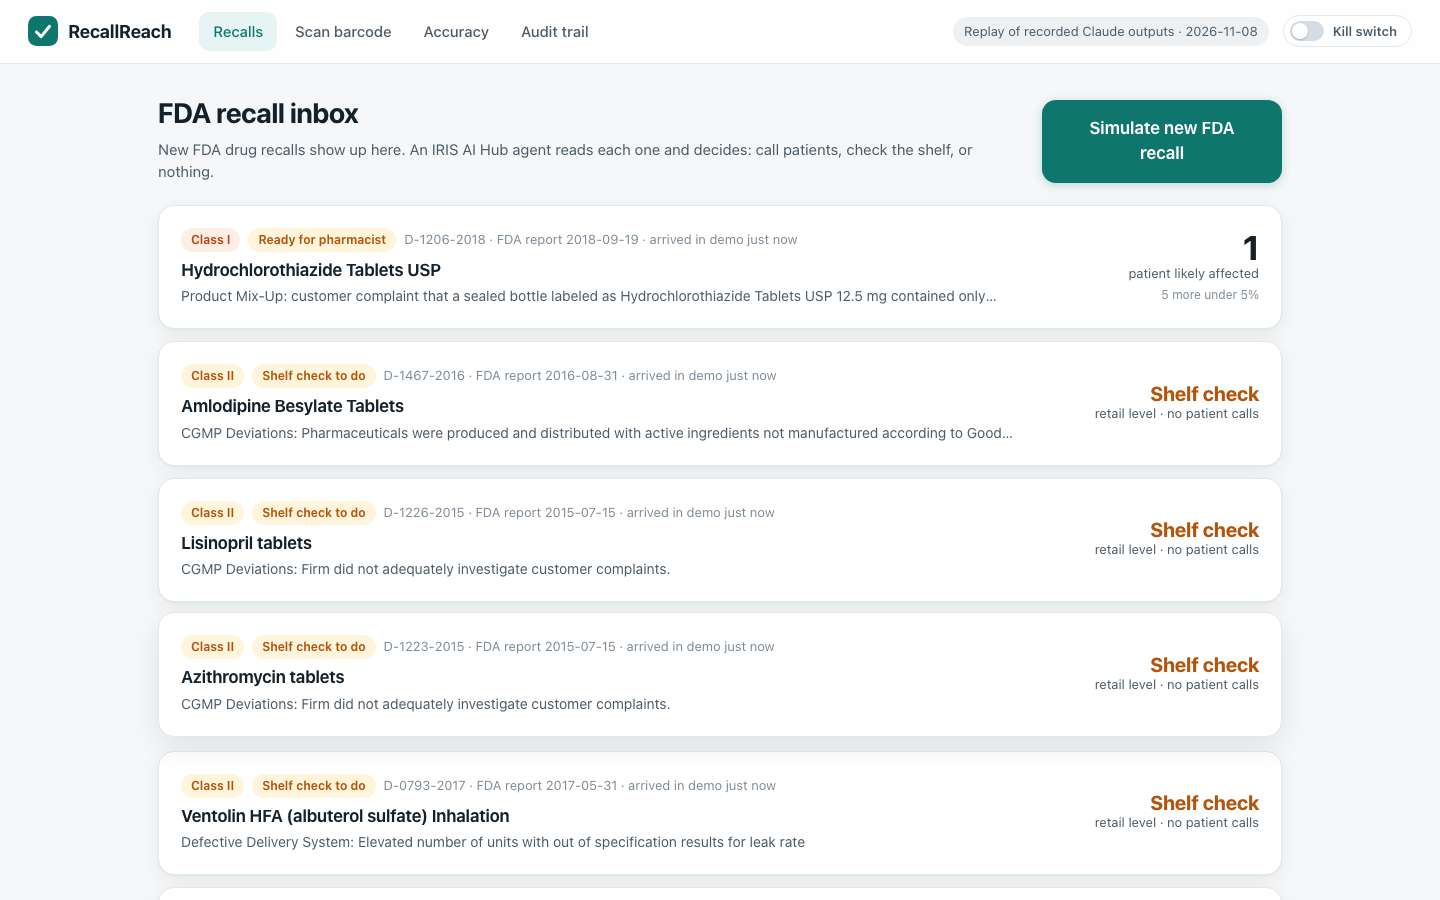
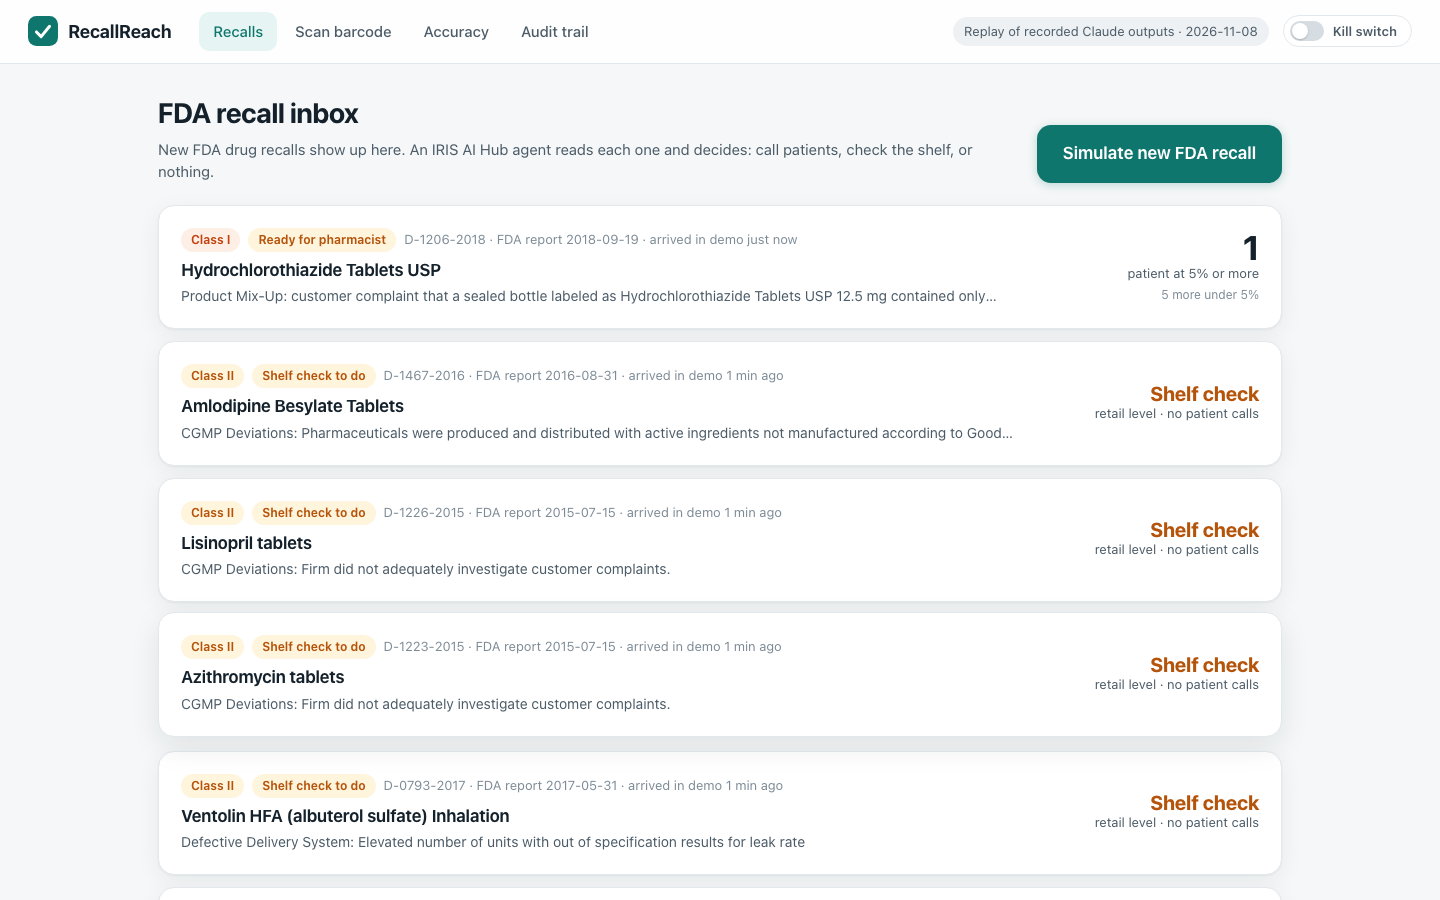
README: why an agent (95 of 105), updated accuracy, scoring notes, new screens and GIF

diff --git a/README.md b/README.md
@@ -7,7 +7,9 @@ When the FDA recalls a drug, RecallReach finds which pharmacy patients probably 
 **For judges (2 minutes)**
 1. Load the IRIS AI Hub image (see [Run it](#run-it)), then `docker compose up -d --build` and open http://localhost:52795/recallreach/index.html
 2. Press *Simulate new FDA recall*, open it, press *Find patients*, then *Ask pharmacist approval* and *Approve*.
-3. Real: MIMIC-IV demo patients, openFDA recalls, the IRIS production, tool calls, Workflow approval, audit, and 312 replies from `claude-haiku-5-5` recorded on 2026-11-08 (the 300 benchmark recalls and all 13 demo recalls). Replayed: with no API key (the default) the agent gets those recorded Claude replies back from a local endpoint, so no model is called and nothing is spent. With a key it calls Claude live ([Run with your own key](#run-with-your-own-key)).
+3. Real: MIMIC-IV demo patients, openFDA recalls, the IRIS production, tool calls, Workflow approval, audit, and 312 replies from `claude-haiku-5-5` recorded on 2026-11-08 (300 benchmark recalls + 12 demo recalls; the 13th demo recall, D-0010-2016, is in the benchmark too). Replayed: with no API key (the default) the agent gets those recorded Claude replies back from a local endpoint, so no model is called and nothing is spent. With a key it calls Claude live ([Run with your own key](#run-with-your-own-key)).
+
+**Why an agent:** the tool result changes the decision. In 105 of the 312 recorded Claude runs the agent judged the recall consumer-level; in 10 the tool reported fills of the recalled NDCs and it chose patient contact, in the other 95 the tool reported 0 fills here and it called nobody (74 shelf checks, 21 no action; e.g. D-0010-2016). On reading the ingredient Claude beats the rule-based extractor 98.3% to 82.0%.
 
 ## What it does
 
@@ -122,12 +124,12 @@ P(patient) = average over MIMIC's date shift of [ 1 - product(1 - P(fill)) ]
 
 - Only a scanned lot gives 100% ("exact"). An estimate is capped at 99% and shown rounded (5% steps above 10%, e.g. "≈55%"); the exact factors are in each row's "Why" panel.
 - A scan is saved only if the GTIN check digit is right and the barcode has a lot and an expiry; otherwise nothing is stored.
-- Lot share does little in practice: in 12 of the 13 demo recalls it is either capped at 1.0 (the recall is larger than the Medicaid volume) or the 50% default for liquids and injections; only D-0648-2016 gets a real ratio (0.76). So the ranking mostly comes from product match and time on shelf. The "Why" panel says which case applies.
+- Lot share does little in practice: in 12 of the 13 demo recalls it is either capped at 1.0 (the recall is larger than the Medicaid volume) or the 50% default (liquids and injections, or an NDC with no Medicaid data in the window, such as D-1206-2018); only D-0648-2016 gets a real ratio (0.76). So the ranking mostly comes from product match and time on shelf. The "Why" panel says which case applies.
 - Rows under 5% are hidden below the list. Medicaid covers only part of US dispensing, so the lot share over-states the true share; each row's "Why" panel says so.
 
 ## Numbers you can check
 
-- Demo recall **D-1206-2018** (Class I, Hydrochlorothiazide Tablets USP 12.5 mg, Accord Healthcare, NDC 16729-182-01, lot PW05264 exp 11/2019, 46,632 bottles, nationwide; reason: the bottle held Spironolactone 25 mg). 6 MIMIC patients have a hydrochlorothiazide order; 2 of them got the recalled NDC. 1 shown, 5 under 5%. With lot PW05264 scanned for patient 10012853: 100%, "Lot confirmed". Without a scan she is first at about 10% (0.12 before rounding).
+- Demo recall **D-1206-2018** (Class I, Hydrochlorothiazide Tablets USP 12.5 mg, Accord Healthcare, NDC 16729-182-01, lot PW05264 exp 11/2019, 46,632 bottles, nationwide; reason: the bottle held Spironolactone 25 mg). 6 MIMIC patients have a hydrochlorothiazide order; 2 of them got the recalled NDC. 1 at 5% or more (shown), 5 under 5%. With lot PW05264 scanned for patient 10012853: 100%, "Lot confirmed". Without a scan she is first at about 10% (0.12 before rounding).
 - D-0464-2017 (Class II, oxycodone oral solution, water possibly contaminated with *Burkholderia cepacia*): consumer level (inferred), 14 shown, 50 under 5%.
 - D-1226-2015 (Lisinopril 5 mg, Class II, complaint-handling problem): retail level (inferred), shelf check for lot 131928. The tool still reports 11 orders of the recalled NDC for 7 patients; nobody is called.
 - Depth in the 647 shipped recalls: stated in the text for 2; inferred for the rest.
@@ -138,11 +140,12 @@ P(patient) = average over MIMIC's date shift of [ 1 - product(1 - P(fill)) ]
   |---|---|---|
   | Found an FDA product NDC | **99.3%** | 99.7% |
   | Found an exact FDA package NDC | **99.3%** | 99.7% |
-  | Ingredient matches FDA's generic name | **98.0%** | 81.7% |
+  | Ingredient matches FDA's generic name | **98.3%** | 82.0% |
   | Extracted an NDC that FDA does not list | **0 of 300** | 0 of 300 |
 
-  Claude's 0.4-point NDC gap is its 2 replies out of 300 that were not valid JSON (D-0354-2025, D-0842-2022); they are counted as misses, not retried. Its ingredient misses are listed on the page (e.g. it read "Insulin aspart" where FDA's generic name field says "WATER INJECTION"). The rule-based extractor's weak spot is brand names like "Kids' Cough and Chest Congestion".
-- **Cost of the live run:** 312 agent calls (the 300 benchmark recalls plus the 12 demo recalls that are not in the benchmark; the demo has 13 recalls and D-0010-2016 is in both), 739,862 input and 417,387 output tokens as reported by the API, **$0.28** at the list price of $0.10 / $0.50 per million tokens. About 6 s and $0.0009 per recall (two model turns with one tool call). The agent's decision matched the rule-based decision on all 13 demo recalls.
+  Claude's 0.4-point NDC gap is its 2 replies out of 300 that were not valid JSON (D-0354-2025, D-0842-2022); they are counted as misses, not retried. Its ingredient misses are listed on the page; some are FDA's own field, not Claude (D-0616-2021: Claude read "Insulin aspart", FDA's generic name field says "WATER INJECTION"). We still count them as misses. The rule-based extractor's weak spot is brand names like "Kids' Cough and Chest Congestion".
+- Scoring notes: an ingredient counts as matched when one of its words (longer than 3 letters) is in FDA's generic or substance name; words are split on spaces and punctuation, so "Ampicillin/Sulbactam" matches. Claude left the lot expiry empty in many replies when the notice gave only a month ("Exp. 11/2019"); the validator fills it from the notice and marks the field "expiry filled by the validator from the notice" (the recordings themselves are unchanged). Expiry is not part of the accuracy score.
+- **Cost of the live run:** 312 agent calls (the 300 benchmark recalls plus the 12 demo recalls that are not in the benchmark; the demo has 13 recalls and D-0010-2016 is in both), 739,862 input and 417,387 output tokens as reported by the API, **$0.28** at the list price of $0.10 / $0.50 per million tokens. About 8 s of wall-clock time (300 benchmark recalls in 40 minutes) and $0.0009 per recall (two model turns with one tool call). The agent's decision matched the rule-based decision on all 13 demo recalls.
 
 ## Run with your own key
 
@@ -159,7 +162,7 @@ The script restarts the container with the key (container environment only; the 
 ./tools/run_tests.sh
 ```
 
-- 36 Python unit tests (`python/tests/test_core.py`, run with IRIS's `irispython`): NDC layouts, GS1 parsing, extraction on a real recall, recall depth (stated, inferred, guard rail, agent quote must be in the notice), decision per depth, singular/plural, hallucinated evidence, JSON reply parsing, MIMIC date windows, lot window, lot share, exact only from a scanned lot, estimate cap, ranking, vectors, accuracy scoring.
+- 37 Python unit tests (`python/tests/test_core.py`, run with IRIS's `irispython`): NDC layouts, GS1 parsing, extraction on a real recall, recall depth (stated, inferred, guard rail, agent quote must be in the notice), decision per depth, singular/plural, expiry filled from the notice when the model leaves it empty, hallucinated evidence, JSON reply parsing, MIMIC date windows, lot window, lot share, exact only from a scanned lot, estimate cap, ranking, vectors, accuracy scoring.
 - ObjectScript `%UnitTest` `RecallReach.Tests.ApprovalTest` (14 test methods): token stored only as SHA-256, 10-minute expiry, single use, kill switch, reject needs a reason, plan only from the ranked list, a shelf-check recall takes no patient plan, duplicate patients count once, audit rows cannot be edited, replay + validation bridge (including the depth rule), GS1 bridge, time arithmetic.
 - `tools/screens.mjs`: headless Playwright walk-through (screenshots in `_screens/`), a 10-spin check at 1440 px and 390 px that the reel stops on the #1 patient, and the video for `docs/spin.gif`.
 
